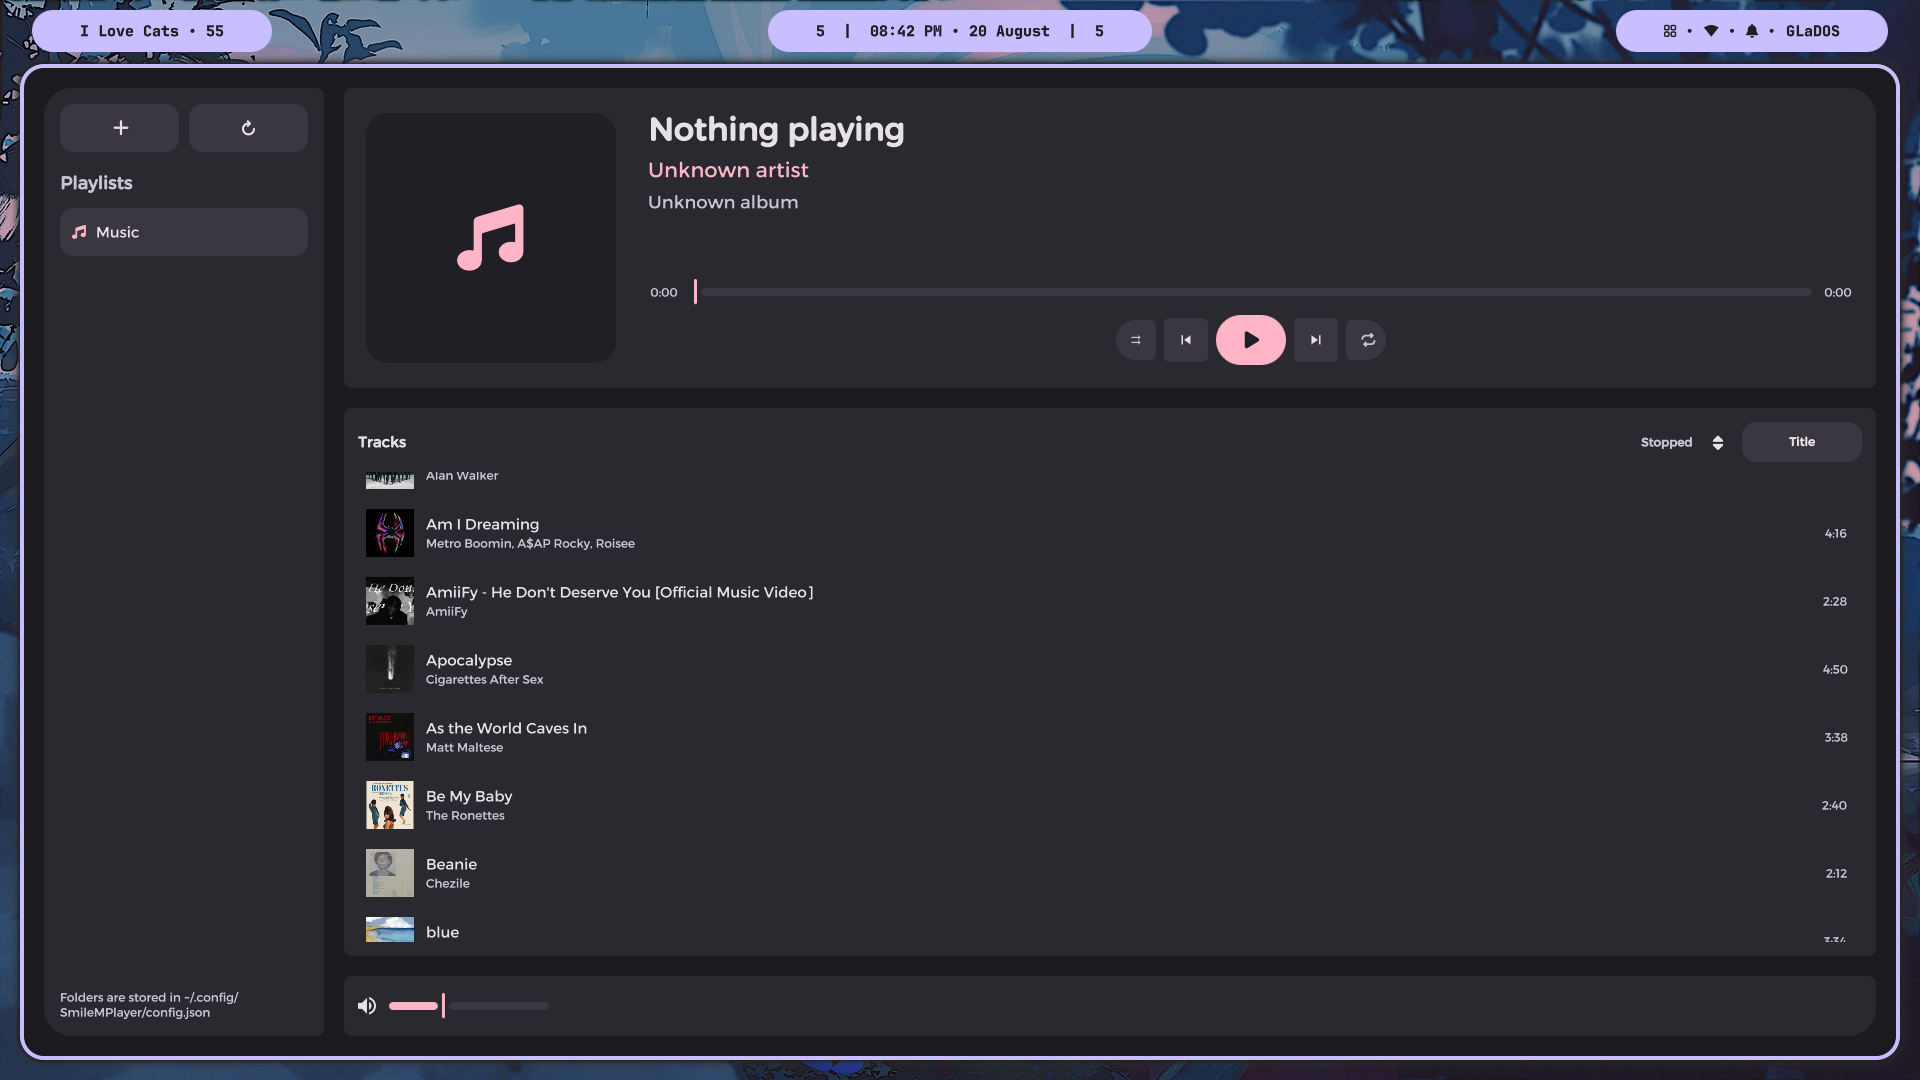
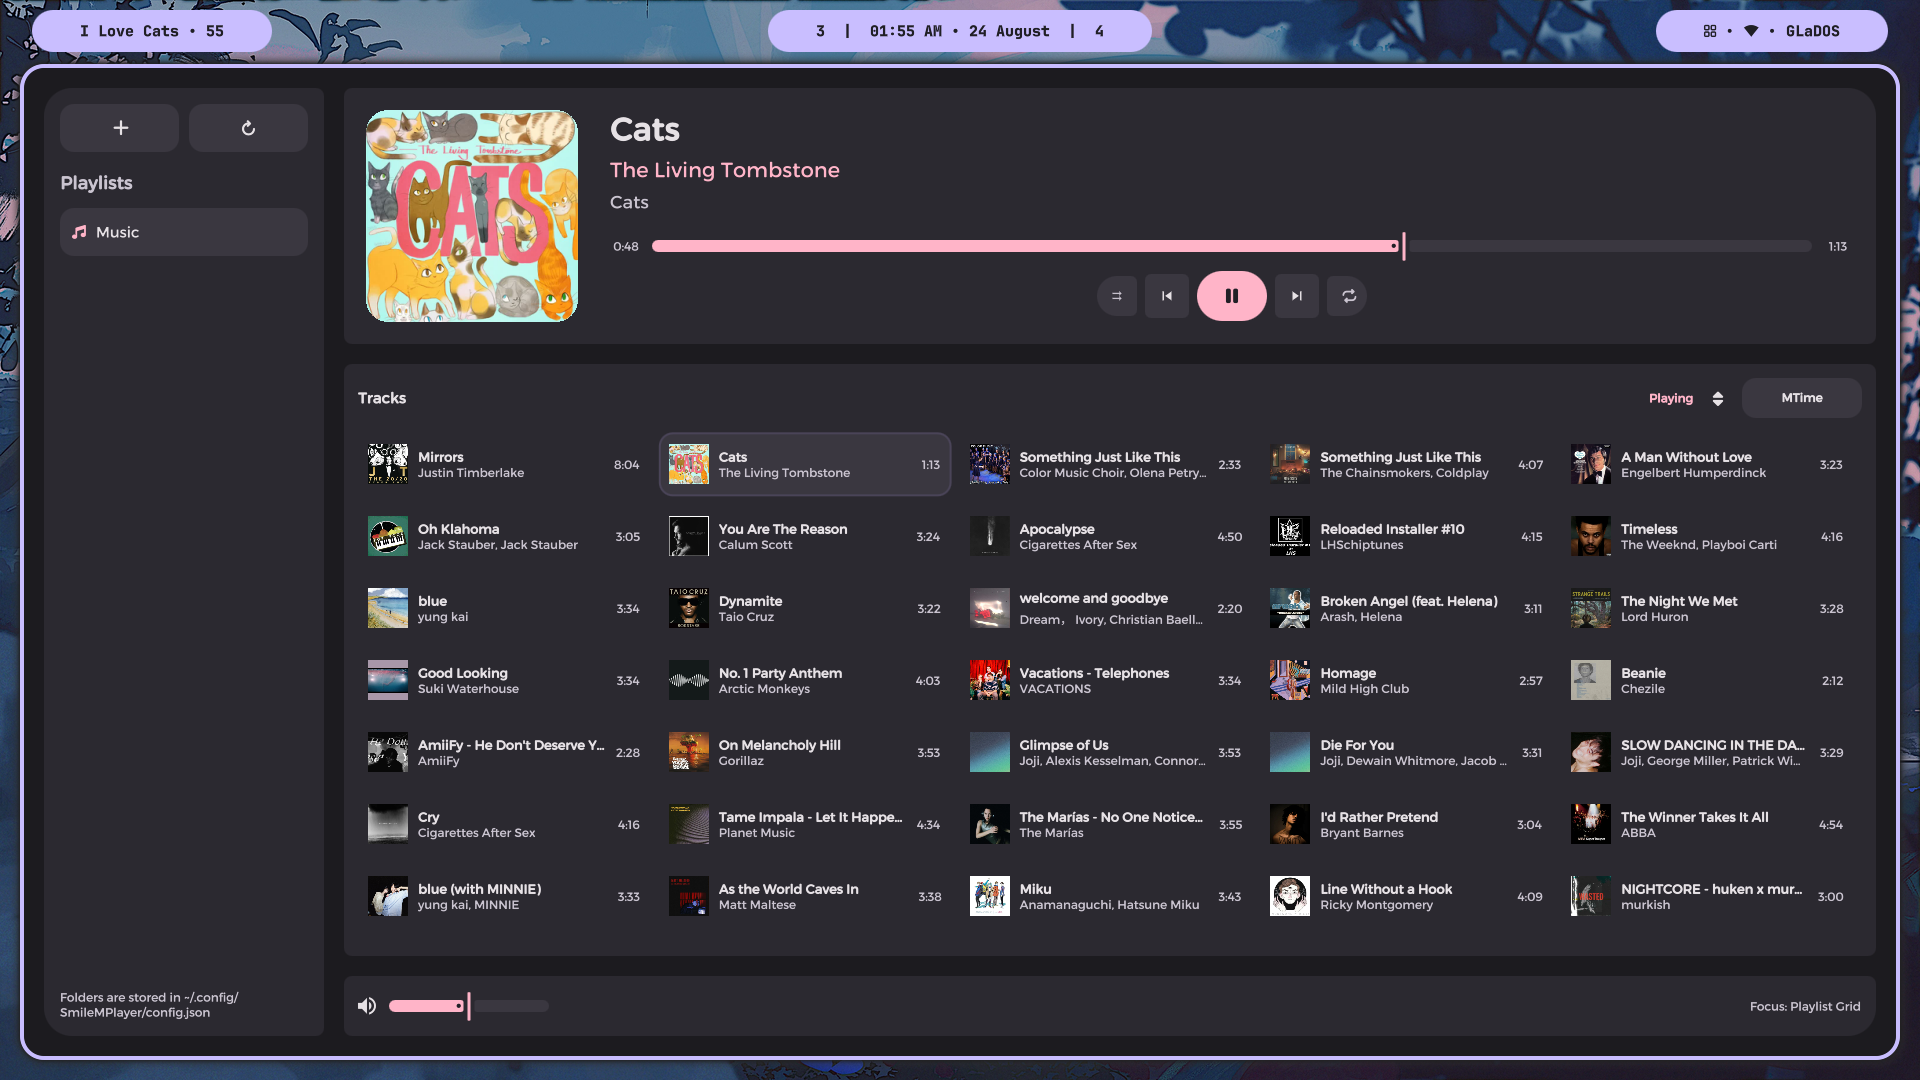
readme and screenshots update

diff --git a/README.md b/README.md
@@ -1,29 +1,32 @@
-> ⚠ This project was meant to be a personal project, but I'm sharing anyways. Therefore, I am not accepting contributions. Thank you. Hope you like my app :)
+<div align="center">
+  <img src="https://raw.githubusercontent.com/SmileLulz/SmileMPlayer/refs/heads/main/data/icons/smilemplayer-512.png" width="150px" alt="SmileMPlayer" />
+  <h1>🎵 SmileMPlayer 🎵</h1>
+  <h3>
+    A simple and modern-looking playlist-based local music player for Linux desktops.
+    <br/>For non-audiophiles.<br>
+  </h3>
+  <br></br>
+  <img alt="SmileMPlayer Logo" src="https://raw.githubusercontent.com/SmileLulz/SmileMPlayer/refs/heads/main/Screenshots/0.png" width="80%" />
+</div>
 
+<br></br>
 
-# ❤ SmileMPlayer
+> [!WARNING]
+> This project was meant to be a personal project, but thought it would be nice to share with others.
+> 
+> By the way, I am not accepting contributions. Thank you. Hope you like my app :)
 
-A simple and modern-looking playlist-based local music player for Linux desktops. For non-audiophiles.
-
-
-### ✨ Features
+# ✨ Features
 
 - Fully customizable/themable via QML
 - Folder-based playlist management
-- Playlist-based single track list
-- Sorting
+- Tracks sorting
 - ReplayGain 2.0 support
 - MPRIS integration
 - All basic things, like cover art, controls, volume, etc...
 - See [TODO.md](https://github.com/SmileLulz/SmileMPlayer/blob/main/TODO.md) for more planned features
 
-**See [CHANGELOG.md](https://github.com/SmileLulz/SmileMPlayer/blob/main/CHANGELOG.md) for latest update information.**
-
-
-# 🏞 Screenshots
-
-| ![Screenshot 1](https://raw.githubusercontent.com/SmileLulz/SmileMPlayer/refs/heads/main/Screenshots/0.png) | ![Screenshot 2](https://raw.githubusercontent.com/SmileLulz/SmileMPlayer/refs/heads/main/Screenshots/1.png) |
-| ------------------------------------------------------------------------------------------------ | ------------------------------------------------------------------------------------------------ |
+**See [CHANGELOG.md](https://github.com/SmileLulz/SmileMPlayer/blob/main/CHANGELOG.md) for latest update information. See [WIKI.md](https://github.com/SmileLulz/SmileMPlayer/blob/main/WIKI.md) for more help.**
 
 
 # 🔗 Dependencies
@@ -39,7 +42,7 @@ All dependencies used as APIs, no packages are bundled.
 - `mutagen`
 - `dbus-next`
 
-### Arch Linux:
+### Arch Linux
 
 - `python`
 - `pyside6`

diff --git a/TODO.md b/TODO.md
@@ -1,6 +1,5 @@
 # TODO
 
-- Decorate README.md
 - Add background play, tray icon and control options (not gonna happen soon)
 
 > Points are removed after completion or decision-change
